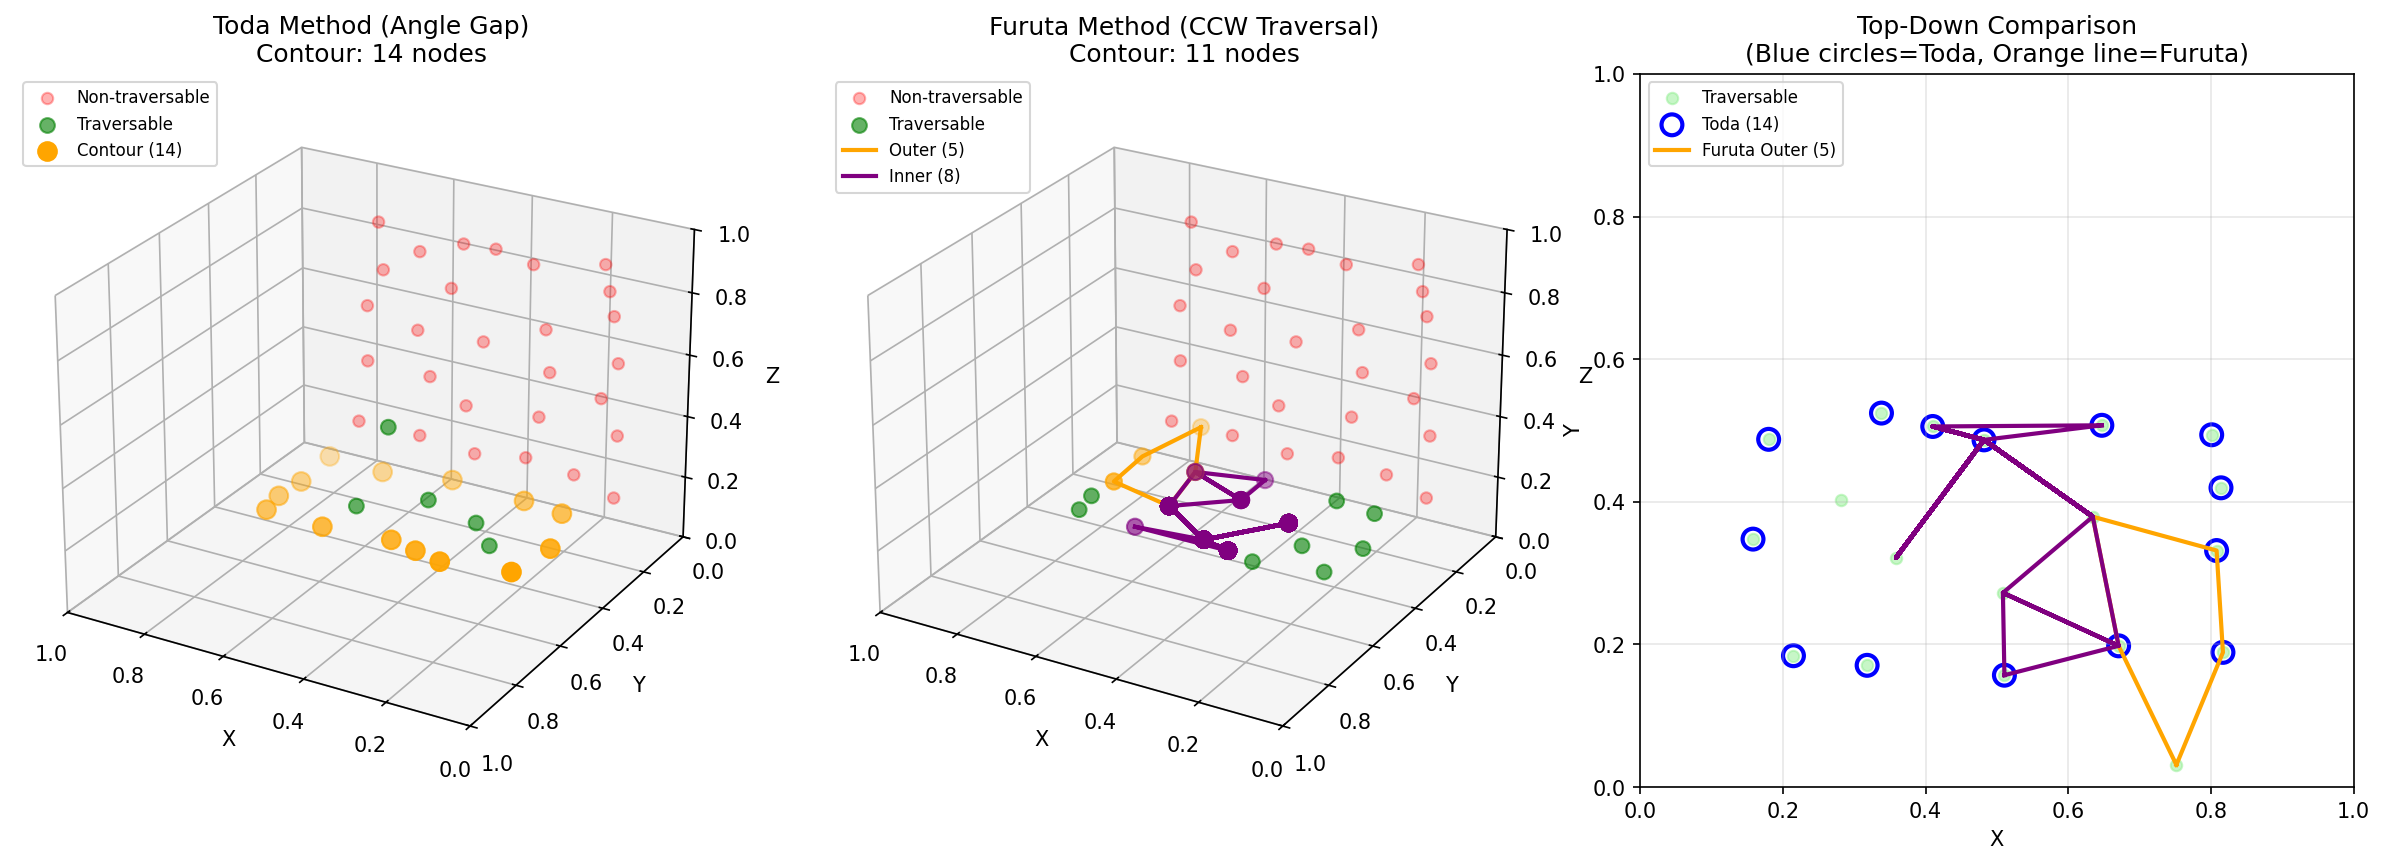
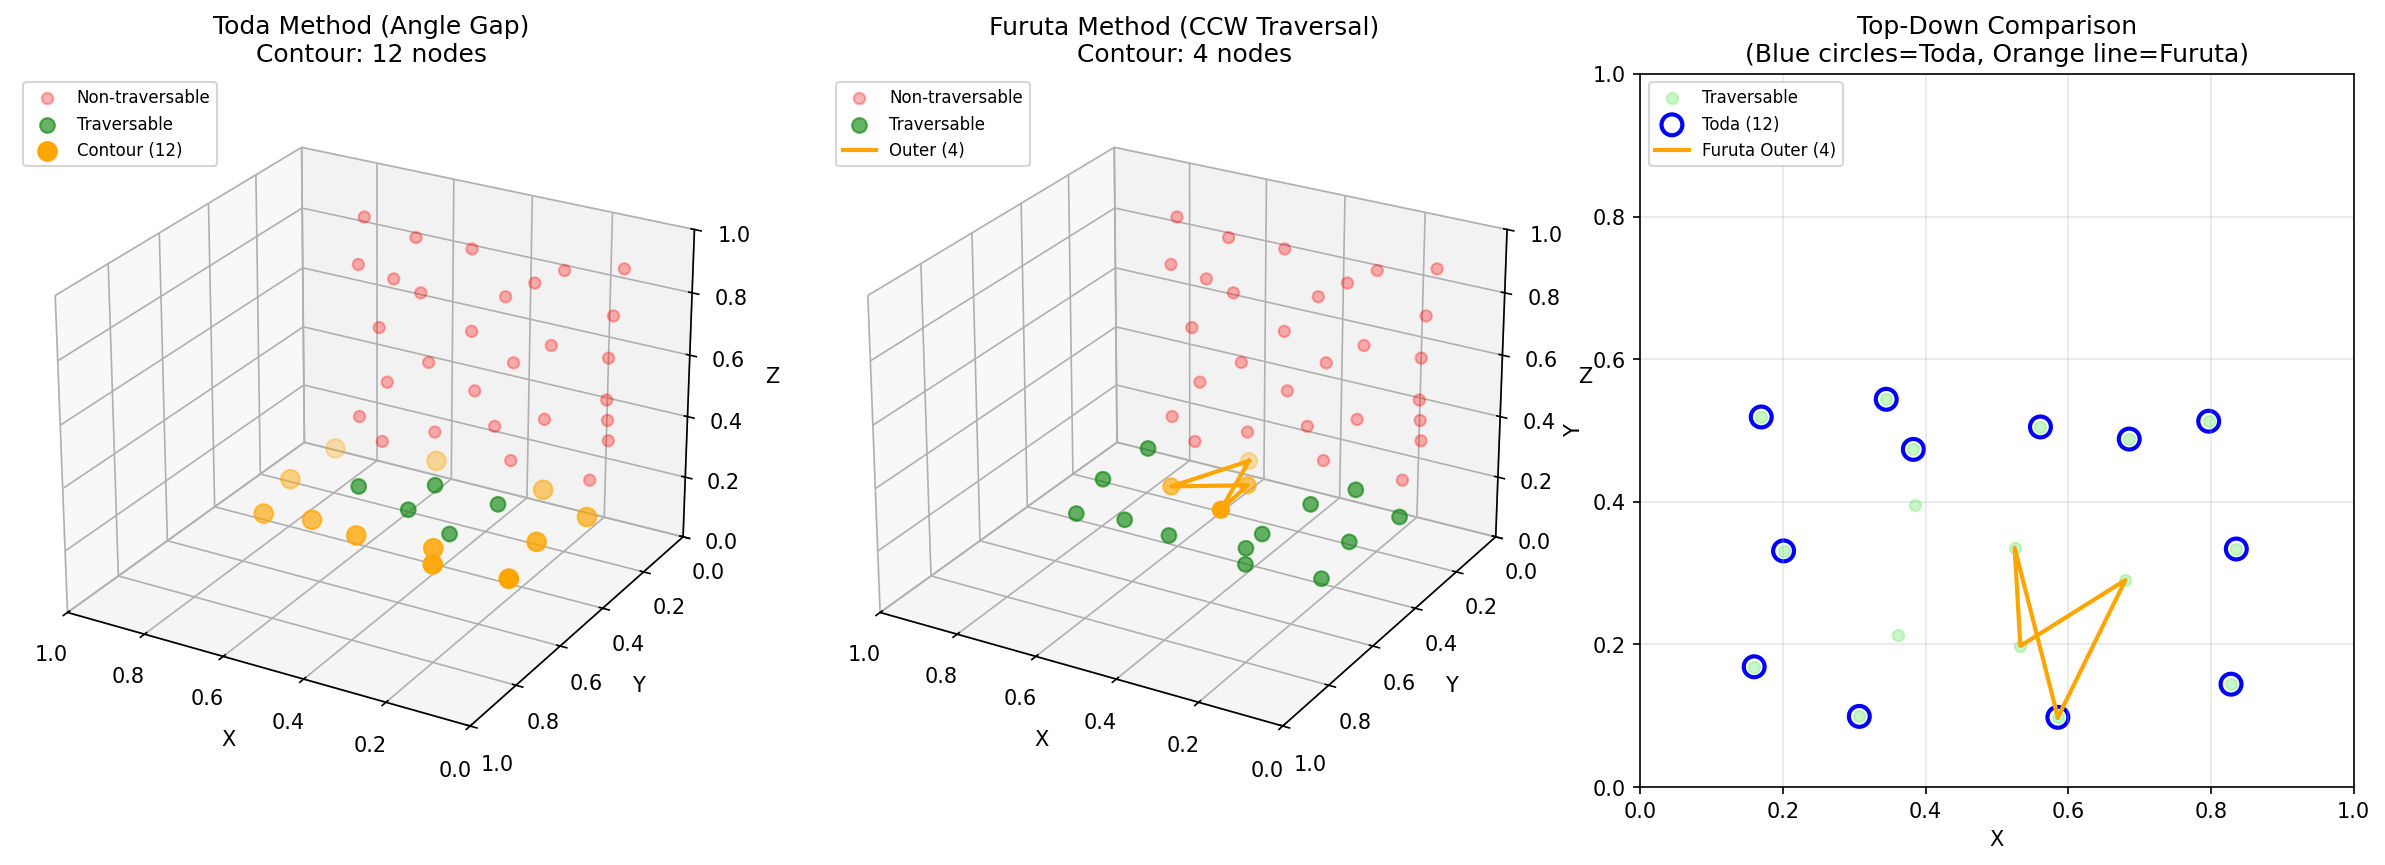
Furuta輪郭検出の実装を修正
論文に従い以下を修正:
- V_new計算: 探索方向ではなく見つけた隣接ノードへの角度を使用
- 開始ノード: 2つ以上の隣接を持つY_minノードを選択
- 前ノード除外: 直前のノードへの戻りを防止
- 最小輪郭長: 3ノード未満では開始ノードへの戻りを禁止

時間比が論文の1.86倍に近い結果を確認（1.89x〜2.00x）

https://claude.ai/code/session_01QzArh1DbyZNaoXsmxVVzqW

diff --git a/experiments/3d_pointcloud/contour_detection/furuta_method.py b/experiments/3d_pointcloud/contour_detection/furuta_method.py
@@ -40,6 +40,7 @@ class FurutaContourParams:
 
     angle_threshold: float = 135.0  # Inner contour detection threshold (degrees)
     max_iterations: int = 1000  # Max iterations for CCW traversal (safety)
+    debug: bool = False  # Enable debug output
 
 
 class FurutaContourDetector:
@@ -150,10 +151,23 @@ class FurutaContourDetector:
         if len(trav_indices) < 3:
             return []
 
-        # Step 1: Sort by Y coordinate to find Y_min
+        # Step 1: Find a good starting node
+        # Original paper uses Y_min, but we need a node with at least 2 neighbors
+        # to enable CCW traversal
         y_coords = nodes[trav_indices, 1]
         sorted_order = np.argsort(y_coords)
-        start_node = int(trav_indices[sorted_order[0]])
+
+        # Find the first node (by Y_min) that has at least 2 neighbors
+        start_node = None
+        for idx in sorted_order:
+            candidate = int(trav_indices[idx])
+            if candidate in trav_pedge and len(trav_pedge[candidate]) >= 2:
+                start_node = candidate
+                break
+
+        # Fallback to Y_min if no good candidate found
+        if start_node is None:
+            start_node = int(trav_indices[sorted_order[0]])
 
         # Check if start node has neighbors
         if start_node not in trav_pedge or len(trav_pedge[start_node]) == 0:
@@ -164,31 +178,53 @@ class FurutaContourDetector:
         current = start_node
         direction = 180.0  # Start searching from 180 degrees (left)
 
+        if self.params.debug:
+            print(f"  Start node: {start_node} at Y={nodes[start_node, 1]:.3f}")
+            print(f"  Neighbors: {trav_pedge.get(start_node, [])}")
+
         # Step 3-5: CCW traversal
         visited_in_traversal = {start_node}
+        termination_reason = "max_iterations"
+        prev_node = None  # Track previous node to avoid going back
+
+        min_contour_length = 3  # Minimum nodes before allowing return to start
 
         for iteration in range(self.params.max_iterations):
+            # Only allow returning to start after visiting minimum nodes
+            allow_start = start_node if len(contour) >= min_contour_length else None
+
             next_node, new_direction = self._find_next_ccw(
-                current, direction, nodes, trav_pedge
+                current, direction, nodes, trav_pedge,
+                exclude_node=prev_node, allow_node=allow_start
             )
+
+            if self.params.debug and iteration < 10:
+                print(f"  Iter {iteration}: current={current}, dir={direction:.1f}° -> next={next_node}, new_dir={new_direction:.1f}° (allow_start={allow_start is not None})")
 
             if next_node is None:
                 # No neighbor found - dead end
+                termination_reason = "dead_end"
                 break
 
-            if next_node == start_node:
+            if next_node == start_node and len(contour) >= min_contour_length:
                 # Completed the loop successfully
+                termination_reason = "completed"
                 break
 
             if next_node in visited_in_traversal:
                 # Stuck in a sub-loop (not returning to start)
                 # This is a stability issue - break to avoid infinite loop
+                termination_reason = f"sub_loop_at_{next_node}"
                 break
 
             visited_in_traversal.add(next_node)
             contour.append(next_node)
+            prev_node = current
             current = next_node
             direction = new_direction
+
+        if self.params.debug:
+            print(f"  Termination: {termination_reason}, contour length: {len(contour)}")
 
         return contour
 
@@ -198,6 +234,8 @@ class FurutaContourDetector:
         direction: float,
         nodes: np.ndarray,
         trav_pedge: dict[int, list[int]],
+        exclude_node: int | None = None,
+        allow_node: int | None = None,
     ) -> tuple[int | None, float]:
         """Find next node in counter-clockwise direction.
 
@@ -206,6 +244,8 @@ class FurutaContourDetector:
             direction: Current search direction (degrees)
             nodes: Node positions
             trav_pedge: Traversable pedge adjacency
+            exclude_node: Node to exclude from search (typically previous node)
+            allow_node: Node that is always allowed (typically start node)
 
         Returns:
             (next_node_id, new_direction) or (None, 0) if no neighbor found
@@ -213,7 +253,11 @@ class FurutaContourDetector:
         if current not in trav_pedge:
             return None, 0.0
 
-        neighbors = trav_pedge[current]
+        # Filter neighbors: exclude previous node but always allow start node
+        neighbors = [
+            n for n in trav_pedge[current]
+            if n != exclude_node or n == allow_node
+        ]
         if len(neighbors) == 0:
             return None, 0.0
 
@@ -233,6 +277,7 @@ class FurutaContourDetector:
         # Find the neighbor with smallest CCW angle from direction
         best_node = None
         best_ccw_angle = float("inf")
+        best_angle = 0.0  # Angle to the best neighbor
 
         for neighbor, angle in angle_list:
             # Calculate CCW angle from direction
@@ -240,13 +285,16 @@ class FurutaContourDetector:
             if ccw_angle < best_ccw_angle:
                 best_ccw_angle = ccw_angle
                 best_node = neighbor
+                best_angle = angle
 
         if best_node is None:
             return None, 0.0
 
         # Update direction: V_new = (V_old - 225) mod 360
-        # This is equivalent to looking back and slightly CCW from where we came
-        new_direction = (direction - 225.0) % 360.0
+        # V_old is the angle TO the found neighbor (not the search direction)
+        # This means: look back from where we came (angle + 180) then go 45° CCW (- 45°)
+        # = angle + 180 - 45 = angle + 135 = angle - 225 (mod 360)
+        new_direction = (best_angle - 225.0) % 360.0
 
         return best_node, new_direction
 
